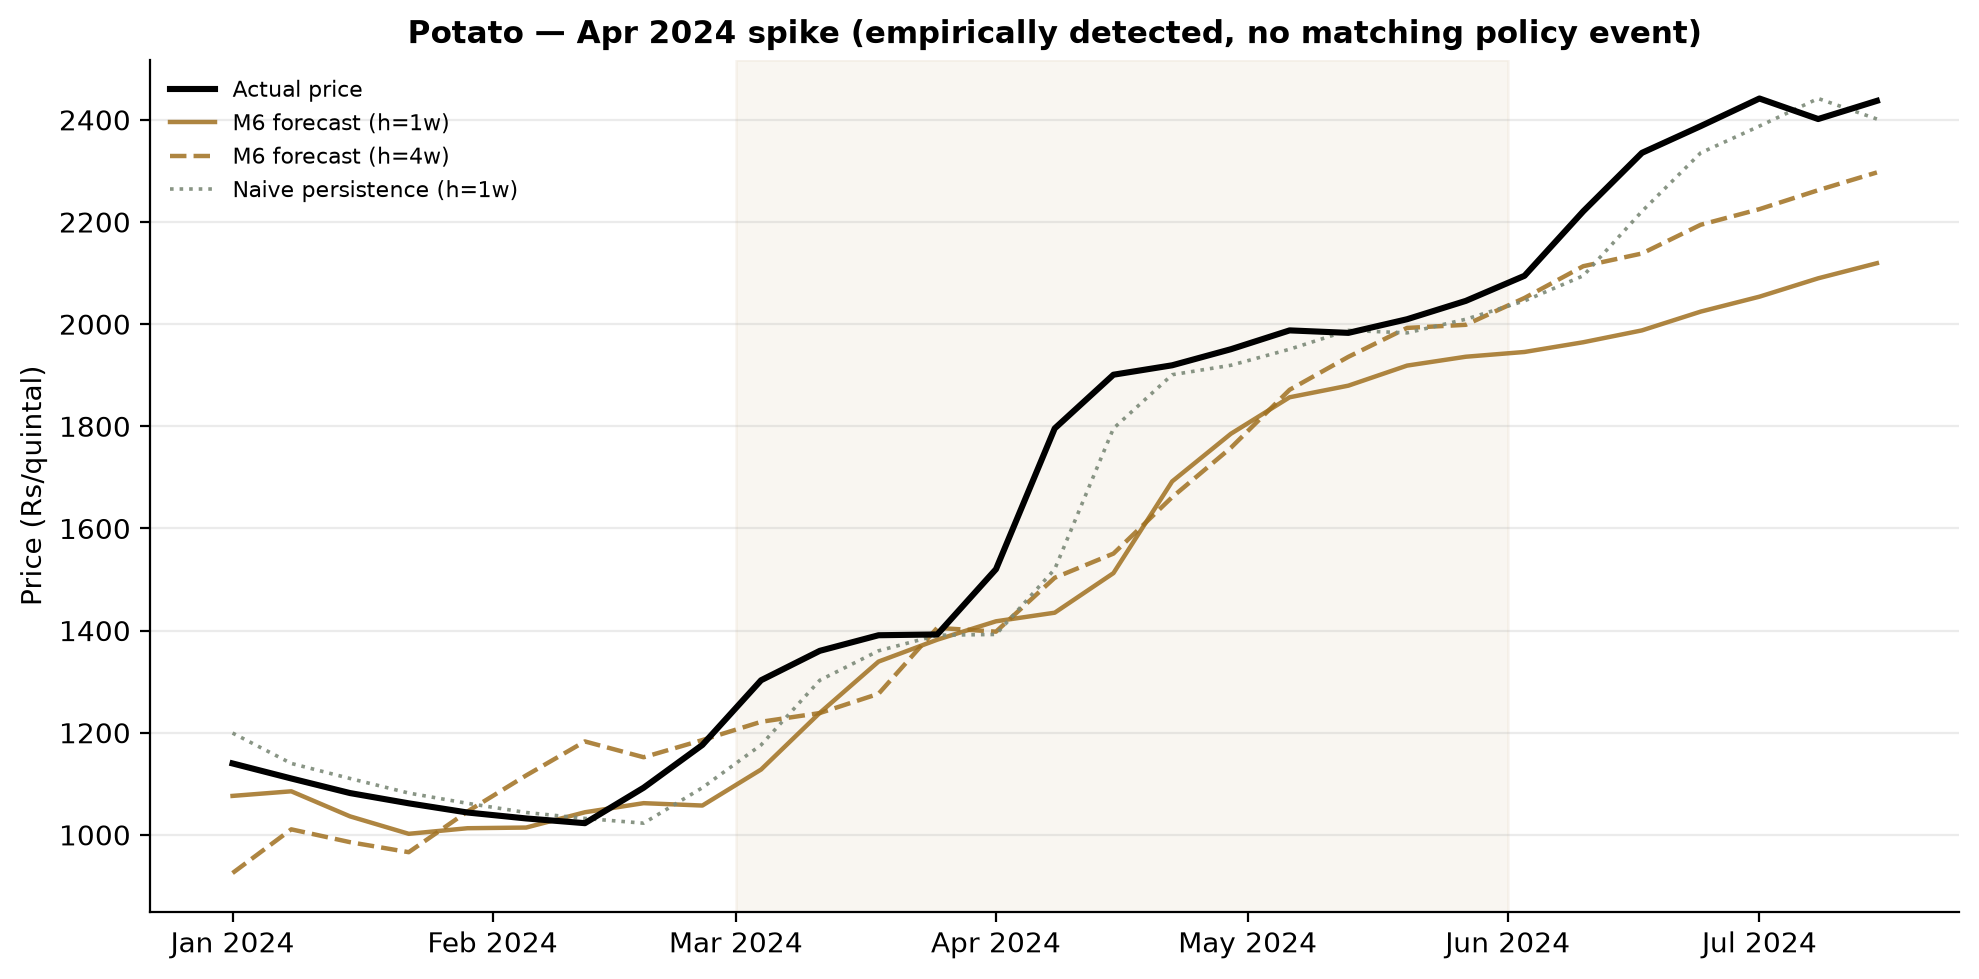
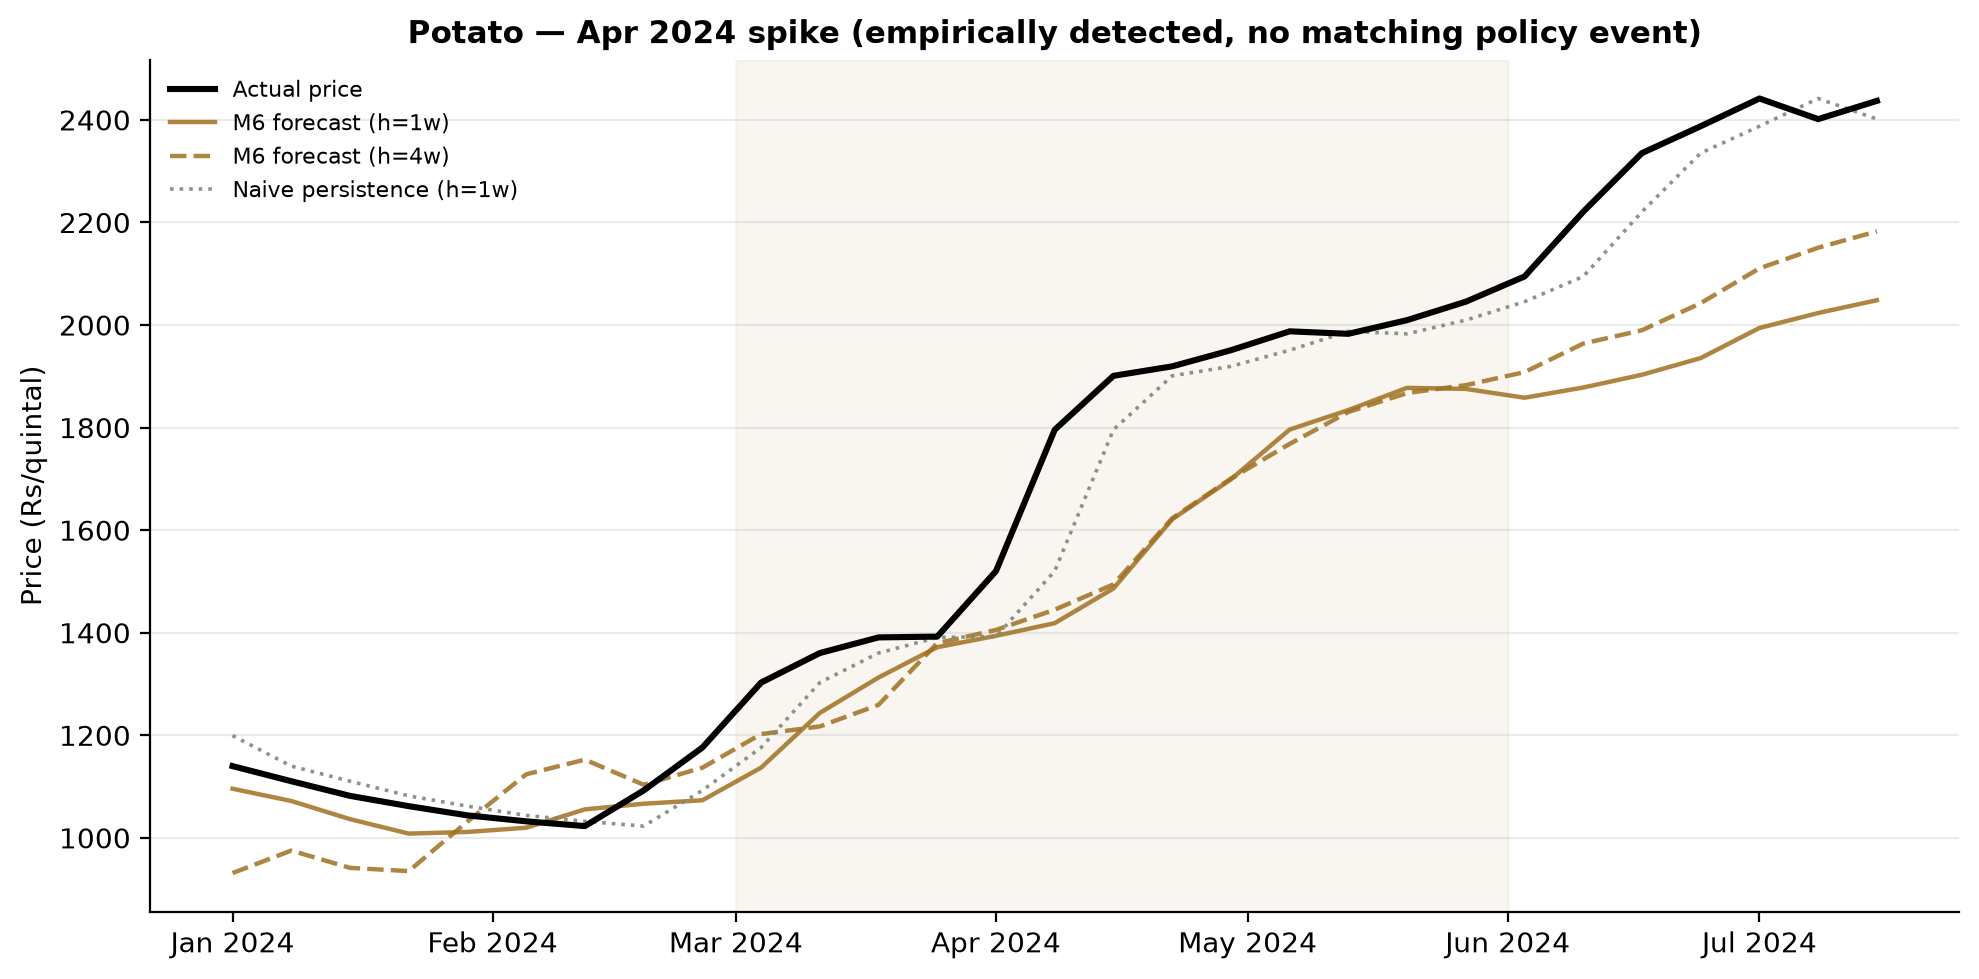
Re-establish current M6 baseline (Scripts 27/28) against external review
An external technical review of the project (three documents, dated
Sept 2026, addressed to Prof. Faaiz) was validated against git history:
confirmed to accurately describe the exact codebase state as of the
2026-08-06 commit (98 commits, 39 scripts, 4-fold CV, and all 12 cited
MAPE/RMSE figures matched byte-exact). Genuine, high-quality external
analysis -- not fabricated -- but stale relative to a month of work
since (5-fold CV extension, market_id collision fix, WAPE switch, the
2026-09 CMIE macro extension), and containing one factual error (potato's
second state is Uttarakhand, not Uttar Pradesh, confirmed wrong even in
the Aug-6 snapshot).

Re-ran Scripts 27 (Horizon Skill & Model Confidence Set) and 28 (Crisis
Backtesting) -- both cheap, <1 min, no retraining, just statistics on
Script 15's already-current predictions -- to re-establish what "current
M6" actually looks like before any decision on the review's proposed M7
data-layer expansion.

Findings, compared against the Aug-4 pre-fix run:
- Crossover horizons unchanged (tomato 4w, onion 13w, potato 26w) --
  stable across two different codebase states a month apart.
- Crisis backtest win/loss pattern identical: M6 beats naive in exactly
  the same 8/16 crisis-window cells both times, only point-estimate MAPE
  values shifted slightly.
- MCS pattern stable, and qualifies the external review's claim that "M6
  dominates at h=13/26w": true for tomato/onion, NOT true for potato,
[…]

diff --git a/Model_Output/MANIFEST.md b/Model_Output/MANIFEST.md
@@ -379,8 +379,8 @@ Status legend: 🟢 current · 🟡 stale, known, re-run pending · ⚫ deprecat
 | `23_Train_Production_Models.py` | `production_models/` (subfolder) | 2026-09-07 (full retrain); `model_uncertainty.json` refreshed 2026-09-03 | 🟢 | **Full retrain 2026-09-07** to propagate the 2026-09-03/07 CMIE macro extension (agri wages, repo/reverse-repo, bank credit to agriculture, diesel — all extended to mid-2026, see `10b_Extend_Macro_2026.py`'s docstring) into the actually-deployed models, not just the ablation study. All 12 models retrained on the full history (panel joined: 522,082 rows x 69 columns); `model_uncertainty.json` values unchanged from the 2026-09-03 refresh (RMSE/WAPE sourced from files the macro extension didn't move — see Script 15's row). JS conversion (`generate_js_models.py`) and cross-language verification (`verify.mjs`) both re-run: **all 12 models bit-for-bit identical between Python and JS** (max_diff=0.000e+0 on every model). Bundled `web/data/production_models/` and `web/backend/src/models/*.js` synced; verified live (tomato h=4w Model Accuracy correctly shows ~65%, matching `model_uncertainty.json`'s tomato_4w WAPE of 35.3%). Note: the ablation study's own M2 (+Macro) variant showed **zero** measurable change from the macro extension (Section retained for the record — the CV folds' training/test windows apparently don't reach far enough into the newly-extended Jun-Aug 2026 range for the extension to move fold-level metrics; worth a closer look if this surprises a future reader, not yet fully explained). Below is the original 2026-08-01 through 2026-09-03 history, retained for continuity: retrained on the grid-fixed panel — 1,721 market baselines (up from ~845). Monotonic constraint on the three export-control policy features retained; oversampling attempt tried and reverted — magnitude question now handled by Script 31 (SDID) instead of asked of this model. Retrained 2026-08-01 for the WPI vintage refresh (tree counts shifted per crop/horizon but validated RMSE/MAPE came out byte-identical) and **again 2026-08-04 for the `s2_ndvi_anom` leakage fix** — small, real, non-headline-moving effect each time; `reference_rows.csv` (dashboard's live baseline) unchanged both times, since only historical training rows were affected, not the latest week. **`model_uncertainty.json` switched from MAPE to WAPE 2026-09-02** (see Script 47/50) — the actual trained models are untouched by this (the metric doesn't feed training), so only the JSON was regenerated, not a full retrain; computed from `dm_market_level_predictions.csv`'s M6 rows (pooled, ratio-of-sums) rather than averaging Script 15's fold-level MAPE scalars from `ablation_raw_results.csv` (RMSE still sourced from there, unaffected by the MAPE/WAPE issue). **Regenerated again 2026-09-03** to pick up the 2026-09-02 forward-fill fix (both RMSE's source `ablation_raw_results.csv` and WAPE's source `dm_market_level_predictions.csv` were stale relative to it until today) — all 12 cells moved by ≤2.3 WAPE points, no headline reversal (potato still less accurate at 13w than 26w: 42.1% vs 35.7% WAPE). Synced to `web/data/production_models/model_uncertainty.json` and verified live. |
 | `25_Horizon_SHAP_Analysis.py` | `table_shap_by_layer.csv`, `table_shap_top_features.csv`, `fig_shap_*.png` (layer_composition, top_features, beeswarm_onion_4w) | 2026-08-04 | 🟢 | Re-run against the retrained production models, most recently for the `s2_ndvi_anom` leakage fix. |
 | `26_Weekly_To_Daily_Disaggregation.py` | `table_dow_pattern.csv`, `table_disagg_backtest.csv`, `fig_disagg_example.png`, `fig_dow_pattern.png` | 2026-07-30 | 🟡 | Predates the 2026-08-01 grid fix AND every fix since (policy/PANEL_END, WPI vintage, macro long-history, `s2_ndvi_anom` leakage). Not yet re-run; the day-of-week pattern and noise-band conclusions are unlikely to shift much but the reference series should be refreshed. |
-| `27_Horizon_Skill_And_MCS.py` | `table_horizon_skill.csv`, `table_horizon_skill_crossover.csv`, `fig_horizon_skill.png`, `table_mcs.csv`, `table_mcs_membership.csv`, `fig_mcs_membership.png` | 2026-08-04 | 🟢 | Re-run on the grid-fixed panel with the now-real `table_mase.csv`. **M6 crossover horizon improved**: tomato 13w->**4w**, onion 26w->**13w**, potato unchanged at 26w. B1_Naive remains the sole 90%-MCS survivor at h=1w for all 3 crops. Re-run again 2026-08-04 for the `s2_ndvi_anom` leakage fix — no ranking changes. |
-| `28_Crisis_Backtesting_Case_Studies.py` | `table_crisis_backtests.csv`, `fig_crisis_tomato_2023.png`, `fig_crisis_onion_2023_24.png`, `fig_crisis_potato_2024_25_spike.png`, `fig_crisis_potato_2024_25_crash.png` | 2026-08-04 | 🟢 | Re-run on the grid-fixed panel, then again 2026-08-04 for the `s2_ndvi_anom` leakage fix. Conclusion unchanged: naive wins at h=1w even during crises (all 4 episodes); M6 dramatically beats naive at h=13w/26w for the tomato and onion crises; potato's Apr 2024 spike remains the one episode where M6 loses to naive at every horizon. |
+| `27_Horizon_Skill_And_MCS.py` | `table_horizon_skill.csv`, `table_horizon_skill_crossover.csv`, `fig_horizon_skill.png`, `table_mcs.csv`, `table_mcs_membership.csv`, `fig_mcs_membership.png` | 2026-09-07 (re-run) | 🟢 | **Re-run to re-establish a current baseline** after an external technical review (dated Sept 2026, addressed to Prof. Faaiz) was validated against the repo and found to accurately describe the project's state as of the 2026-08-06 commit — since superseded by the 5-fold CV extension, market_id collision fix, WAPE switch, and the 2026-09 CMIE macro extension, all of which changed `ablation_predictions.csv`/`table_mase.csv` this script reads. Crossover horizons **unchanged** from the Aug-4 run (tomato 4w, onion 13w, potato 26w) — a genuinely stable finding across two different codebase states a month apart. MCS pattern also stable: potato's B1_Naive still survives (never eliminated, p=1.000) at h=13w in both the Aug-4 and today's run — this qualifies the external review's generalized claim that "M6 dominates at h=13/26w": true in aggregate/for tomato+onion, not true for potato specifically, where naive remains statistically undefeated at h=13w even now. |
+| `28_Crisis_Backtesting_Case_Studies.py` | `table_crisis_backtests.csv`, `fig_crisis_tomato_2023.png`, `fig_crisis_onion_2023_24.png`, `fig_crisis_potato_2024_25_spike.png`, `fig_crisis_potato_2024_25_crash.png` | 2026-09-07 (re-run) | 🟢 | **Re-run for the same reason as Script 27's row above.** Per-cell MAPE values shifted slightly (e.g. tomato h=13w crisis MAPE 26.5%->17.8%) but the win/loss pattern is **identical** to the Aug-4 run: M6 beats naive in exactly 8/16 crisis-window comparisons, same 8 cells both times. Naive still wins at h=1w in all 4 episodes; potato's Apr-2024 spike is still the one episode where M6 loses to naive at every horizon. A genuinely robust finding, not an artifact of the pre-fix data. |
 | `29_Granger_Causality_Analysis.py` | `table_granger_layers.csv`, `fig_granger_layers.png`, `table_granger_market_network.csv`, `fig_granger_market_network.png` | 2026-08-01 | 🟡 | Re-run on the grid-fixed panel; predates the WPI-vintage/macro-long-history/leakage fixes since. Conclusions unlikely to shift (Granger significance is robust to small feature drift) but not re-verified. Its own top-5-by-arrivals market network is now superseded by Script 42's top-20 net-leadership analysis (see below) — Script 42 is the current reference for market lead-lag, not this file's `table_granger_market_network.csv`. |
 | `30_Formal_Stress_Testing.py` | `table_stress_test_results.csv`, `fig_stress_test_{tomato,onion,potato}.png` | 2026-08-04 | 🟢 | Re-run on the grid-fixed panel and retrained models, most recently 2026-08-04 for the `s2_ndvi_anom` leakage fix. **Sign issue from the earlier (pre-2026-07-31) unconstrained model is fixed** via the monotonic constraint on export_banned/export_duty_pct/mep_usd_per_tonne (Script 15/23). Current state: median response collapses to ~0.0% for these scenarios (correct sign, but the constrained model can't recover a realistic magnitude either — see Script 31). |
 | `31_Synthetic_DID_Policy_Effect.py` | Part A/B: `table_sdid_policy_effect.csv`, `table_sdid_unit_weights.csv`, `fig_sdid_treated_vs_synthetic.png`, `table_sdid_hub_policy_effect.csv`, `fig_sdid_hub_vs_nonhub.png`. Part C: `table_sdid_event_study.csv`, `fig_sdid_event_study.png`, `table_sdid_donor_robustness.csv`, `table_sdid_arrivals_effect.csv`, `fig_sdid_arrivals_treated_vs_synthetic.png` | 2026-08-01 | 🟢 | Estimates the 2023-24 onion export-restriction episode's price effect directly via Synthetic DID (Arkhangelsky et al. 2021), since Script 30's forecasting model can't recover a reliable magnitude (identification problem — duty/MEP/ban only ever moved together once). Part A (cross-crop, tomato/potato as donors): escalation-phase ATT +56.2% is credible (huge gap vs tomato placebo -30.7%), but the post-ban ATT (+14.5%) **fails its own placebo check** — indistinguishable from same-window tomato (+14.5%) and potato (+15.2%) placebo ATTs. Part B (within-onion, Nashik export-hub vs non-hub markets): real 2023 postban ATT +3.7% vs placebo-in-time (fake 2021 dates) ATT -3.9%. **Part C:** (1) event-study trajectories — decomposes each static ATT into a weekly path; (2) jackknife 90% CIs — the Part A postban placebo failure becomes a formal result: onion 90% CI [+12.2%, +16.8%] fully overlaps tomato-placebo's [+12.3%, +16.8%]; the escalation-phase CI [+52.3%, +60.1%] does NOT overlap tomato-placebo's [-31.8%, -29.6%]. Part B's hub-design CIs also separate: real-2023 postban [+0.9%, +6.6%] vs. placebo-in-time [-6.3%, -1.4%] do NOT overlap; (3) donor-pool robustness — escalation-phase ATT stable under leave-one-donor-out: [+46.1%, +60.8%] vs. full-sample +56.2%; (4) arrivals/quantity effect — onion arrivals in treated markets *fell* relative to synthetic control (escalation -25.8%, postban -14.3%), reported as an open finding, not resolved. **Overall honest conclusion: no single design here fully isolates the ban's causal magnitude.** Formally closed as a documented negative/non-identifiable result (2026-08-05). See Scripts 38/39 below for the two follow-up robustness checks this motivated. |
